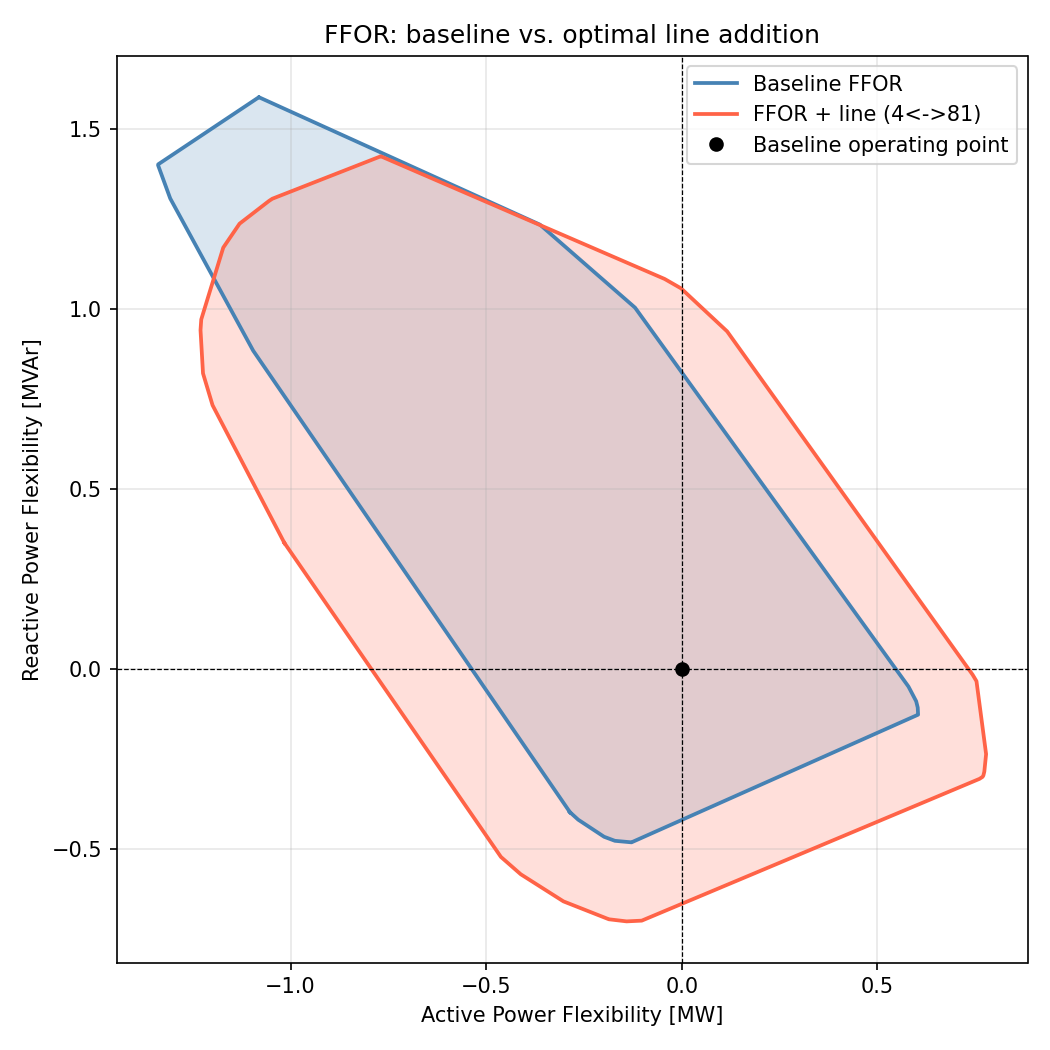
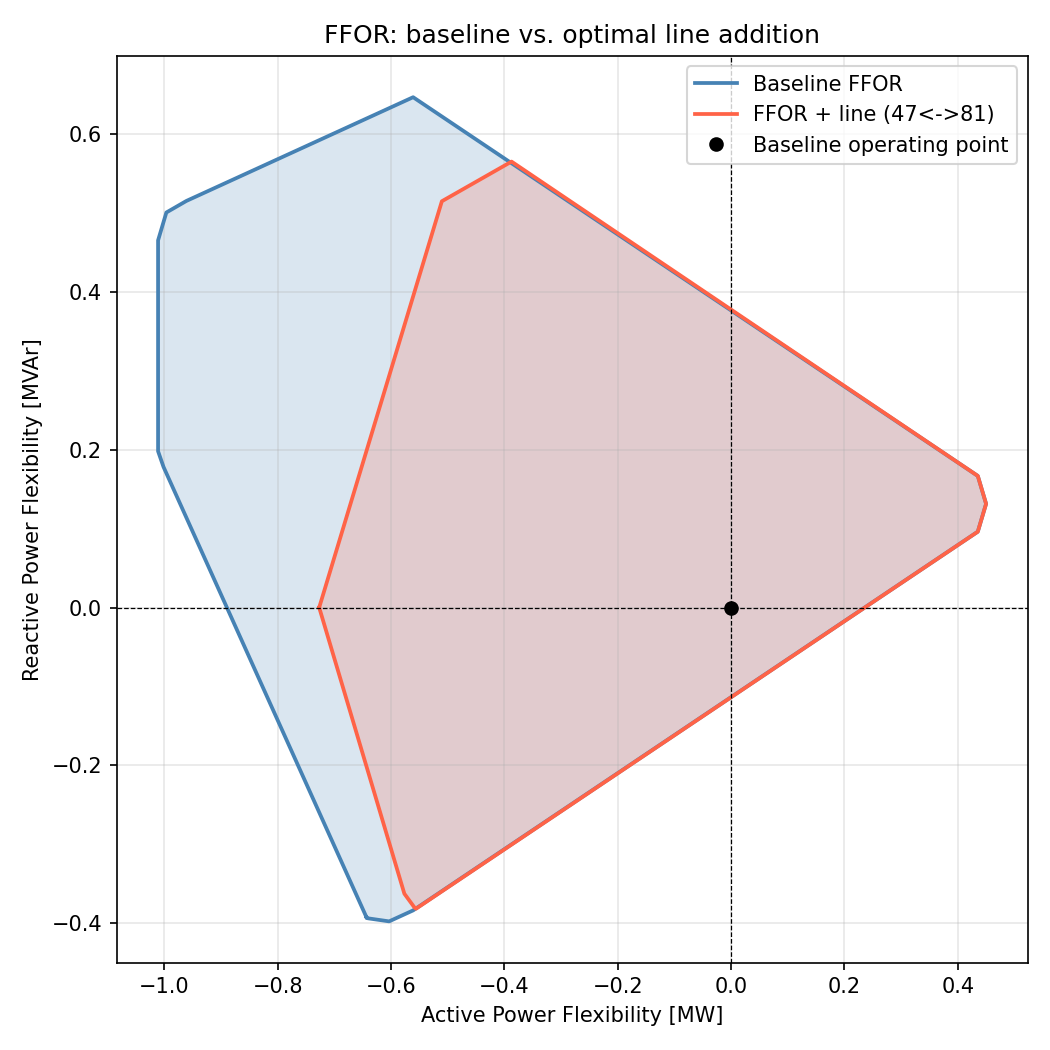
candidate ranking & line length

diff --git a/test/line_add.py b/test/line_add.py
@@ -104,9 +104,8 @@ class ShadowPriceScorer(FFOROptimizer):
                     
         if valid_angles > 0:
             for pair in pair_scores: pair_scores[pair] /= valid_angles
-                
-        ranked = sorted(pair_scores.items(), key=lambda x: x[1], reverse=True)
-        return [pair for pair, score in ranked]
+
+        return pair_scores
 
 def _ffor_area(P: np.ndarray, Q: np.ndarray) -> float:
     mask = ~(np.isnan(P) | np.isnan(Q))
@@ -143,6 +142,53 @@ def _candidate_pairs(bus_df: pd.DataFrame, line_df: pd.DataFrame, min_hops: int 
             candidates.append((u, v))
     return candidates
 
+def _normalize_scores(scores: dict) -> dict:
+    vals = np.array(list(scores.values()), dtype=float)
+    lo, hi = vals.min(), vals.max()
+    span = hi - lo
+    if span < 1e-12:
+        return {k: 1.0 for k in scores}
+    return {k: (v - lo) / span for k, v in scores.items()}
+
+def _device_proximity_weights(line_df: pd.DataFrame, candidates: list, device_buses: set, decay_hops: float = 10.0) -> dict:
+    """Score each candidate pair by electrical (hop-distance) closeness to buses
+    hosting flexible PV/BESS/Load devices, so that the ranking responds to where
+    those devices actually sit rather than only to network topology."""
+    import networkx as nx
+    G = nx.Graph()
+    for _, row in line_df.iterrows():
+        G.add_edge(int(row['from_bus']), int(row['to_bus']))
+
+    if not device_buses:
+        return {pair: 1.0 for pair in candidates}
+
+    lengths = dict(nx.all_pairs_shortest_path_length(G))
+    weights = {}
+    for (u, v) in candidates:
+        d_u = min((lengths.get(u, {}).get(db, np.inf) for db in device_buses), default=np.inf)
+        d_v = min((lengths.get(v, {}).get(db, np.inf) for db in device_buses), default=np.inf)
+        nearest = min(d_u, d_v)
+        weights[(u, v)] = float(np.exp(-nearest / decay_hops))
+    return weights
+
+def _bus_geo_positions(grid: WasterkingenGrid) -> dict:
+    """Real geographic bus coordinates (meters, Swiss LV95) read from the grid Excel sheet.
+    Returns {} if the sheet is unavailable, so callers can fall back to a default length."""
+    excel_path = grid.data_dir / "70-1_0_4_grid.xlsx"
+    try:
+        geo_df = pd.read_excel(excel_path, sheet_name="bus_geodata", index_col=0, engine="openpyxl")
+        return {int(idx): (float(row["x"]), float(row["y"])) for idx, row in geo_df.iterrows()}
+    except Exception:
+        return {}
+
+def _geo_length_km(bus_pos: dict, bus_i: int, bus_j: int, fallback_km: float) -> float:
+    """Straight-line distance between two buses in km (matches how existing line_km values
+    in this dataset are derived from bus_geodata), falling back when geodata is missing."""
+    if bus_i not in bus_pos or bus_j not in bus_pos:
+        return fallback_km
+    (x1, y1), (x2, y2) = bus_pos[bus_i], bus_pos[bus_j]
+    return float(np.hypot(x1 - x2, y1 - y2) / 1000.0)
+
 def _median_line_params(line_df: pd.DataFrame) -> dict:
     return {
         "r_ohm_per_km": float(np.median(line_df['r_ohm_per_km'])),
@@ -174,15 +220,34 @@ def find_optimal_line_addition(
 
     all_candidates = _candidate_pairs(grid.bus_df, line_df_orig, min_hops=8)
     scorer = ShadowPriceScorer(grid, bess_list, pv_list, load_list)
-    ranked_candidates = scorer.rank_candidates_by_shadow_price(all_candidates, t_idx, baseline, n_directions)
+    shadow_scores = scorer.rank_candidates_by_shadow_price(all_candidates, t_idx, baseline, n_directions)
+
+    # Blend structural electrical significance with closeness to where the
+    # flexible PV/BESS/Load devices actually sit, so the chosen location moves
+    # when device placement changes instead of always favoring the structurally
+    # most "extreme" pair (e.g. PCC <-> farthest leaf bus).
+    device_buses = {d.bus for d in (bess_list + pv_list + load_list)}
+    proximity_weights = _device_proximity_weights(line_df_orig, all_candidates, device_buses)
+    norm_shadow = _normalize_scores(shadow_scores)
+    norm_proximity = _normalize_scores(proximity_weights)
+    combined_scores = {pair: 0.5 * norm_shadow[pair] + 0.5 * norm_proximity[pair] for pair in all_candidates}
+
+    ranked_candidates = sorted(combined_scores, key=combined_scores.get, reverse=True)
     candidates = ranked_candidates[:top_n]
 
     if line_params is None: line_params = _median_line_params(line_df_orig)
     results = []
-    
+
+    # Use each candidate's real geographic distance (matches how length_km is derived
+    # for existing lines in this dataset) instead of one fixed length for every pair --
+    # otherwise a PCC<->far-leaf "shortcut" looks just as short/cheap as a local link,
+    # which artificially favors long-distance candidates.
+    bus_pos = _bus_geo_positions(grid)
+
     for idx, (bus_i, bus_j) in enumerate(candidates):
+        cand_length_km = _geo_length_km(bus_pos, bus_i, bus_j, fallback_km=length_km)
         line_df_cand = line_df_orig.copy()
-        _add_candidate_line(line_df_cand, bus_i, bus_j, length_km, line_params)
+        _add_candidate_line(line_df_cand, bus_i, bus_j, cand_length_km, line_params)
         grid.line_df, grid.n_lines = line_df_cand, len(line_df_cand)
         grid.build_jacobian()
 
@@ -193,7 +258,7 @@ def find_optimal_line_addition(
         except Exception:
             area, ffor = 0.0, None
 
-        results.append({"bus_i": bus_i, "bus_j": bus_j, "area": area, "ffor": ffor})
+        results.append({"bus_i": bus_i, "bus_j": bus_j, "area": area, "ffor": ffor, "length_km": cand_length_km})
 
     grid.line_df, grid.n_lines = line_df_orig, len(line_df_orig)
     grid.build_jacobian()
@@ -207,7 +272,7 @@ def find_optimal_line_addition(
 
     return {
         "best_pair": (best["bus_i"], best["bus_j"]), "best_ffor": best["ffor"],
-        "best_area": best_area, "base_area": base_area,
+        "best_area": best_area, "base_area": base_area, "best_length_km": best["length_km"],
         "area_gain": gain, "area_gain_pct": gain_pct,
         "all_results": results,
     }

diff --git a/test/main.py b/test/main.py
@@ -87,7 +87,7 @@ def main():
         cap_results = compute_ffor_capacity_sweep(
             grid=grid, bess_list=bess_list, pv_list=pv_list, load_list=load_list,
             baseline=baseline, bus_i=best_bus_i, bus_j=best_bus_j,
-            capacities_ka=capacities, length_km=0.5, t_idx=t_idx, n_directions=36,
+            capacities_ka=capacities, length_km=line_result["best_length_km"], t_idx=t_idx, n_directions=36,
         )
 
         plot_ffor_capacity_overlay(
